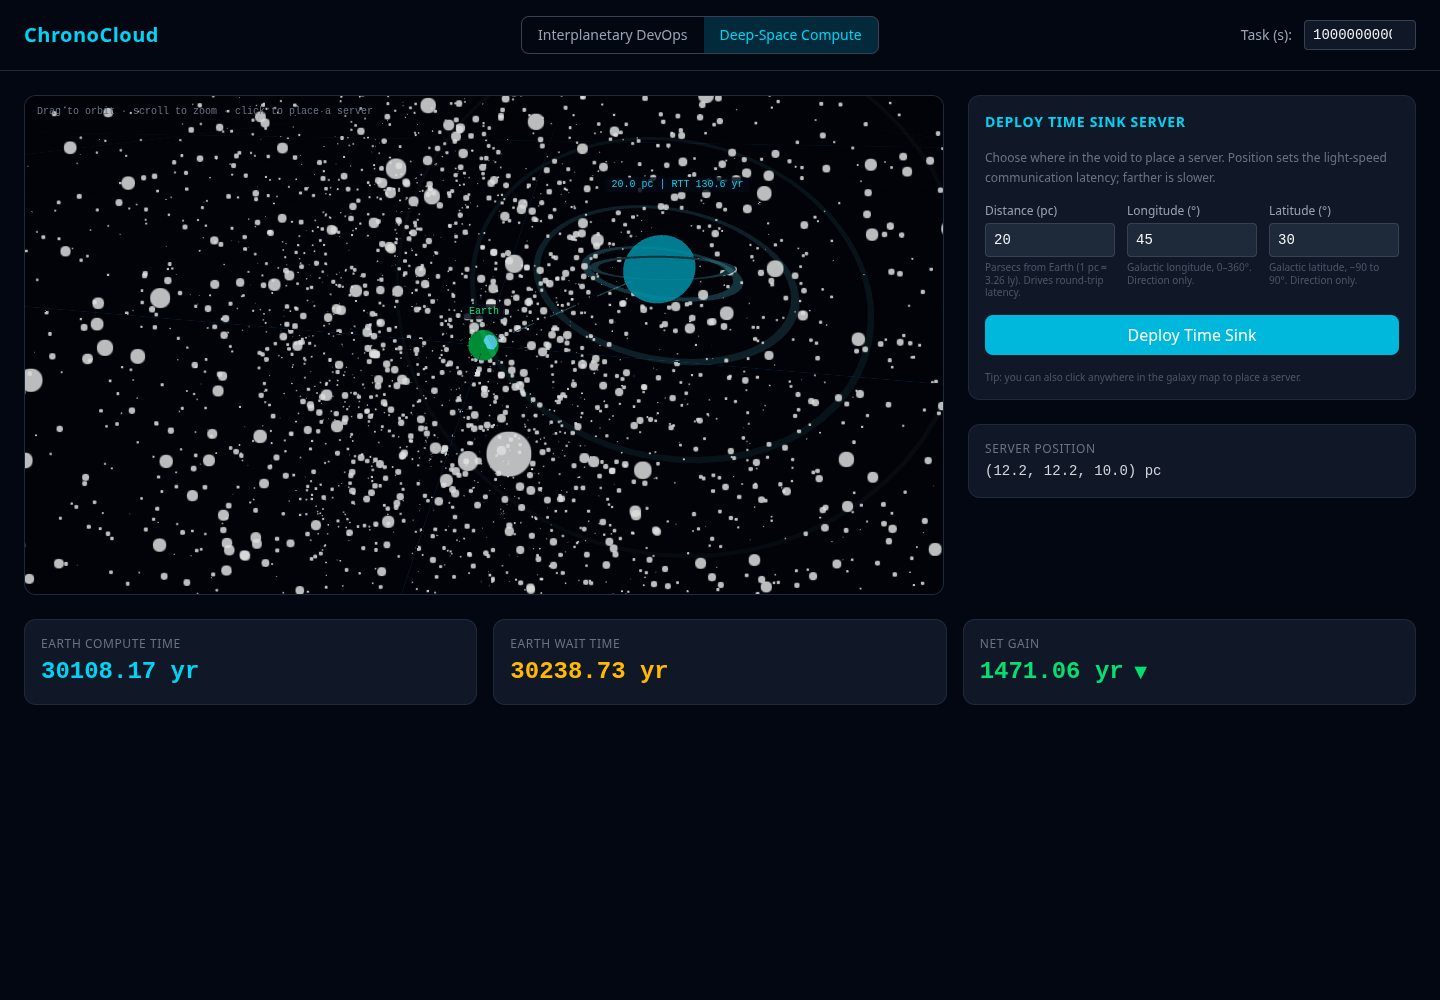
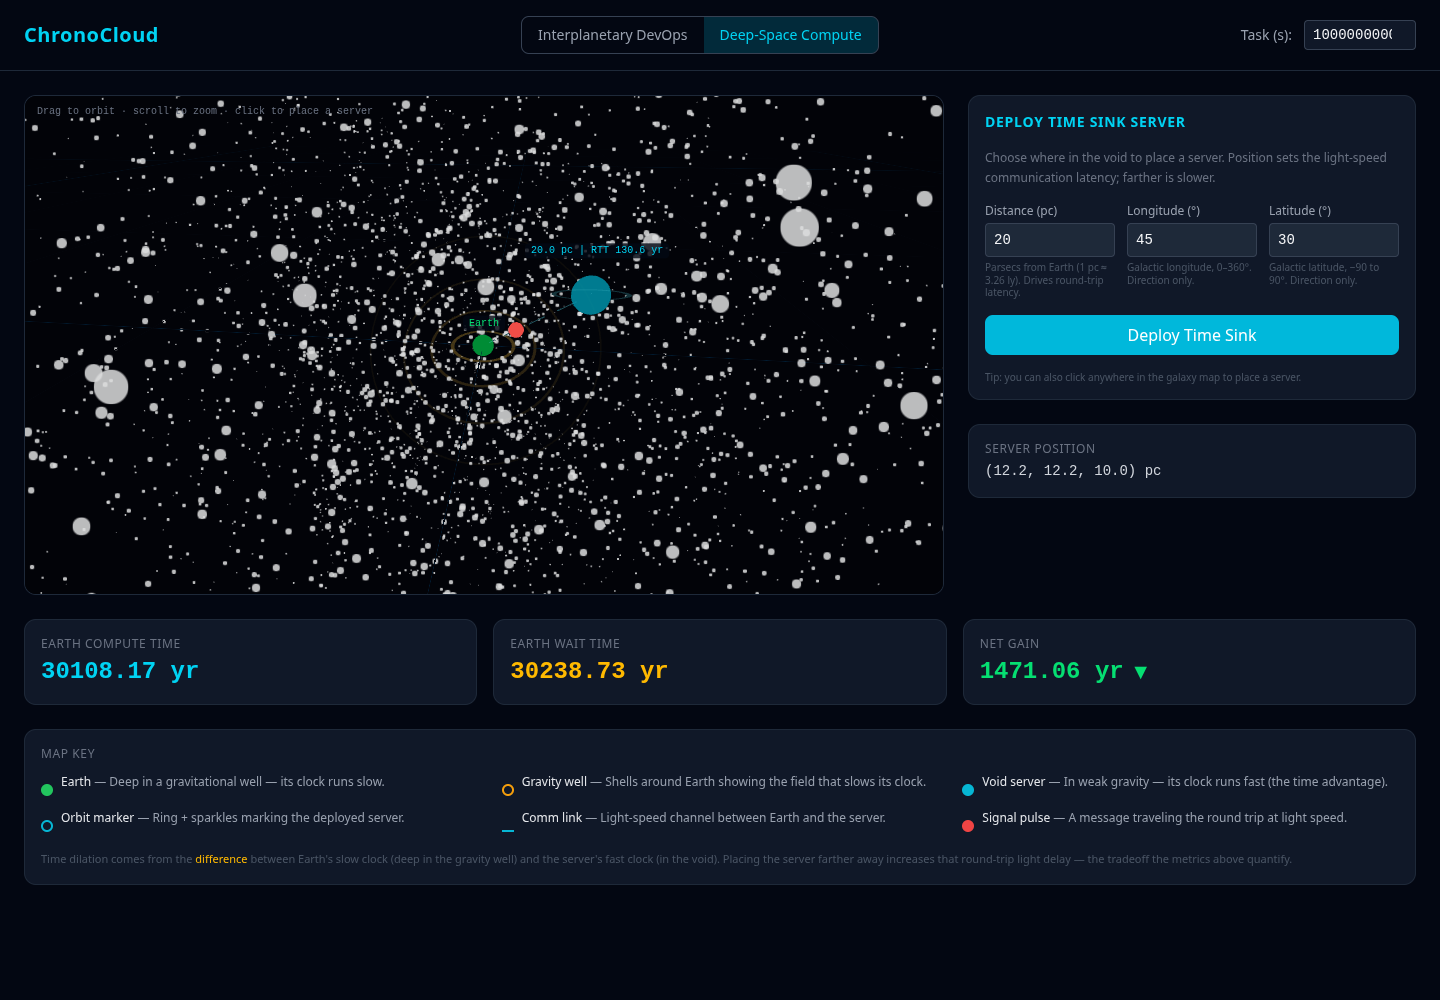
Move gravity well to Earth, recolor, and add a map key
Physics-honest visualization fix: the gravitational-field rings now
surround Earth (amber), where the well actually is, instead of the void
server. The server keeps only its cyan orbit marker. The time-dilation
advantage is the difference between Earth's slow clock and the server's
fast clock, so the well belongs at Earth.

- Recolor: Earth gravity well = amber, server marker = cyan, signal
  pulse = red — distinct colors per element, fading opacity retained on
  the well shells.
- Add a "Map Key" legend below the metrics row explaining every visual
  element (Earth, gravity well, void server, orbit marker, comm link,
  signal pulse) plus a note on where dilation comes from.
- Update README walkthrough and feature list to match.

diff --git a/frontend/src/components/far-future/FarFutureView.jsx b/frontend/src/components/far-future/FarFutureView.jsx
@@ -9,6 +9,49 @@ import MetricsDash from './MetricsDash'
 const DEFAULT_MASS_KG = 1.989e30   // solar mass
 const DEFAULT_RADIUS_M = 3e4       // 30 km — near neutron-star surface
 
+const LEGEND_ITEMS = [
+  { swatch: 'dot', color: '#22c55e', label: 'Earth', desc: 'Deep in a gravitational well — its clock runs slow.' },
+  { swatch: 'ring', color: '#f59e0b', label: 'Gravity well', desc: "Shells around Earth showing the field that slows its clock." },
+  { swatch: 'dot', color: '#06b6d4', label: 'Void server', desc: 'In weak gravity — its clock runs fast (the time advantage).' },
+  { swatch: 'ring', color: '#06b6d4', label: 'Orbit marker', desc: 'Ring + sparkles marking the deployed server.' },
+  { swatch: 'line', color: '#06b6d4', label: 'Comm link', desc: 'Light-speed channel between Earth and the server.' },
+  { swatch: 'dot', color: '#ef4444', label: 'Signal pulse', desc: 'A message traveling the round trip at light speed.' },
+]
+
+function Swatch({ type, color }) {
+  if (type === 'ring') {
+    return <span className="inline-block w-3 h-3 rounded-full border-2 flex-shrink-0" style={{ borderColor: color }} />
+  }
+  if (type === 'line') {
+    return <span className="inline-block w-3 h-0.5 flex-shrink-0" style={{ backgroundColor: color }} />
+  }
+  return <span className="inline-block w-3 h-3 rounded-full flex-shrink-0" style={{ backgroundColor: color }} />
+}
+
+function MapLegend() {
+  return (
+    <div className="bg-gray-900 border border-gray-800 rounded-xl p-4">
+      <p className="text-xs text-gray-500 uppercase tracking-wider mb-3">Map Key</p>
+      <div className="grid grid-cols-1 sm:grid-cols-2 lg:grid-cols-3 gap-x-6 gap-y-2">
+        {LEGEND_ITEMS.map(item => (
+          <div key={item.label} className="flex items-start gap-2">
+            <span className="mt-1"><Swatch type={item.swatch} color={item.color} /></span>
+            <p className="text-xs text-gray-400 leading-tight">
+              <span className="text-gray-200 font-medium">{item.label}</span> — {item.desc}
+            </p>
+          </div>
+        ))}
+      </div>
+      <p className="text-[11px] text-gray-600 mt-3 leading-relaxed">
+        Time dilation comes from the <span className="text-amber-400">difference</span> between
+        Earth's slow clock (deep in the gravity well) and the server's fast clock (in the void).
+        Placing the server farther away increases that round-trip light delay — the tradeoff the
+        metrics above quantify.
+      </p>
+    </div>
+  )
+}
+
 export default function FarFutureView({ taskSeconds }) {
   const [stars, setStars] = useState([])
   const [serverPosition, setServerPosition] = useState(null)
@@ -76,6 +119,7 @@ export default function FarFutureView({ taskSeconds }) {
           netGain={metrics.net_gain}
         />
       )}
+      <MapLegend />
     </div>
   )
 }

diff --git a/frontend/src/components/far-future/GalaxyMap.jsx b/frontend/src/components/far-future/GalaxyMap.jsx
@@ -123,29 +123,28 @@ function CommLine({ serverPosition }) {
   )
 }
 
-const GRAVITY_RINGS = [
-  { inner: 4, outer: 4.5, opacity: 0.25, speed: 0.2 },
-  { inner: 7, outer: 7.4, opacity: 0.15, speed: -0.15 },
-  { inner: 11, outer: 11.3, opacity: 0.08, speed: 0.1 },
-  { inner: 16, outer: 16.2, opacity: 0.04, speed: -0.08 },
+// Concentric shells around Earth representing the gravitational well it sits
+// in. Tighter near Earth, fading outward — Earth's clock runs slow here, which
+// is exactly what gives a distant void server its relative time advantage.
+const GRAVITY_WELL_RINGS = [
+  { inner: 4, outer: 4.5, opacity: 0.30, speed: 0.2 },
+  { inner: 7, outer: 7.4, opacity: 0.18, speed: -0.15 },
+  { inner: 11, outer: 11.3, opacity: 0.10, speed: 0.1 },
+  { inner: 16, outer: 16.2, opacity: 0.05, speed: -0.08 },
 ]
 
-function GravityRings({ position }) {
+function GravityWell() {
   const ringsRef = useRef([])
 
   useFrame((_, delta) => {
     ringsRef.current.forEach((mesh, i) => {
-      if (mesh) mesh.rotation.z += delta * GRAVITY_RINGS[i].speed
+      if (mesh) mesh.rotation.z += delta * GRAVITY_WELL_RINGS[i].speed
     })
   })
 
-  if (!position) return null
-
-  const rings = GRAVITY_RINGS
-
   return (
-    <group position={[position.x, position.y, position.z]}>
-      {rings.map((r, i) => (
+    <group position={[0, 0, 0]}>
+      {GRAVITY_WELL_RINGS.map((r, i) => (
         <mesh
           key={i}
           ref={el => ringsRef.current[i] = el}
@@ -153,7 +152,7 @@ function GravityRings({ position }) {
         >
           <ringGeometry args={[r.inner, r.outer, 64]} />
           <meshBasicMaterial
-            color="#06b6d4"
+            color="#f59e0b"
             transparent
             opacity={r.opacity}
             side={THREE.DoubleSide}
@@ -297,9 +296,9 @@ export default function GalaxyMap({ stars, serverPosition, onPlaceServer }) {
         <pointLight position={[0, 100, 0]} intensity={0.2} color="#1e3a5f" />
         <Stars radius={800} depth={200} count={3000} factor={2} fade speed={0.3} saturation={0.1} />
         <StarField stars={stars} />
+        <GravityWell />
         <EarthMarker />
         <CommLine serverPosition={serverPosition} />
-        <GravityRings position={serverPosition} />
         <ServerMarker position={serverPosition} />
         <Grid
           cellSize={50}

diff --git a/README.md b/README.md
@@ -82,8 +82,10 @@ Open http://localhost:5173
 
 **Features:**
 - **3D Galaxy Map** — An interactive star field rendered from the HYG astronomical catalog (8,920 real stars). Rotate, zoom, and pan to explore. Background stars twinkle; data stars are color-coded by luminosity (brighter stars appear warmer).
-- **Server Placement** — Click anywhere on the map or enter galactic coordinates (distance, longitude, latitude) to deploy a void server. The server appears as a floating, glowing sphere surrounded by gravitational field rings and sparkles.
-- **Light-Speed Communication Line** — A dashed line connects Earth (green marker at origin) to your server, with an animated signal pulse traveling back and forth. The label shows distance in parsecs and round-trip travel time.
+- **Server Placement** — Click anywhere on the map or enter galactic coordinates (distance, longitude, latitude) to deploy a void server. The server appears as a floating, glowing cyan sphere with an orbit-ring marker and sparkles.
+- **Earth's Gravity Well** — Amber concentric shells surround the green Earth marker, representing the gravitational well that slows Earth's clock. The time-dilation advantage comes from the *difference* between Earth's slow clock and the void server's fast one — so the well is drawn at Earth, where it physically belongs, not at the server.
+- **Light-Speed Communication Line** — A dashed cyan line connects Earth to your server, with an animated **red signal pulse** traveling the round trip. The label shows distance in parsecs and round-trip travel time.
+- **Map Key** — A legend below the metrics row explains every on-screen element (Earth, gravity well, void server, orbit marker, comm link, signal pulse).
 - **Metrics Dashboard** — Three cards update in real time with animated value transitions:
   - *Earth Compute Time* — how much Earth time passes while the void server completes the task (less than the raw task duration, because the server's clock is faster)
   - *Earth Wait Time* — compute time + round-trip light delay
@@ -148,7 +150,7 @@ So there is a **break-even task size**: below it, the fixed communication overhe
 
 This capture shows a void server deployed at **20 pc** with a **10¹² second** workload (set via the *Task (s)* field in the header). Reading the screen:
 
-- The **green marker** at the center is Earth; the **cyan sphere** with an orbit ring and gravitational field rings is the deployed server. A dashed **communication line** connects them, with an animated signal pulse traveling the round trip.
+- The **green marker** at the center is Earth, wrapped in **amber gravity-well shells** (the field that slows Earth's clock). The **cyan sphere** with an orbit ring is the deployed void server. A dashed **communication line** connects them, with a **red signal pulse** traveling the round trip. A **Map Key** below the metrics labels every element.
 - The **metrics row** shows the result: *Earth Compute Time* ≈ 30,108 yr (less than the 31,700 yr the task would take locally, because the server's clock runs faster), *Earth Wait Time* ≈ 30,238 yr (compute + round-trip light delay), and a **positive Net Gain of ~1,471 yr** (green) — offloading wins here.
 - Try dragging the server farther out: the light-delay term grows until the Net Gain flips negative (red), demonstrating the latency/dilation tradeoff.
 